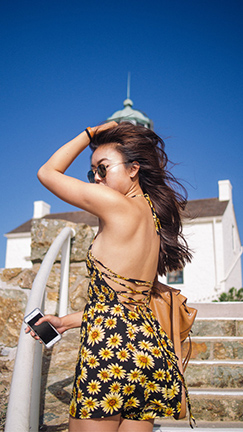
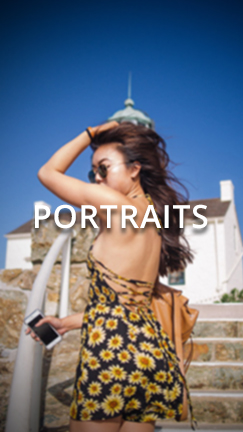
edited photos and projects
new photography menu

diff --git a/tct.html b/tct.html
@@ -141,9 +141,9 @@
 
 <strong>Community Members</strong>: Community members will be the backbone that supports the success of the school gardens. We will take into account students’ parents, teachers, and especially volunteers from San Diego County. Their ages will range from 16-65 years old. Since there is little to no funding for the school gardens, it is essential that volunteers from the community assist with the maintenance of the gardens. The site will be designed so that it is easy to navigate for someone who wants to get information about how to get involved. The presence of community members and volunteers in the site’s forums will be crucial for this project’s success, and in turn, the school gardens’ success.<br><br>
 
-To create a high-quality user experience, we created an empathy map to understand and gain deeper insights from our personas. While we focused on the needs and interests for these personas, the empathy map uncovers what the persona sees, thinks/feels, hears, gains, and is challenged by. We created an empathy map for one persona who specifically worked on a non-profit for school and community gardens and also used to teach at a local San Diego high school. 
-  Some of the key user needs that we uncovered from having conducted our interviews were that the website could and should incorporate: a simple user friendly design, visuals with tutorials, guides, and images, listings of plants and soil types as well as the pros and cons of each, a landscape and plant estimation application, and a directory of other schools with gardens in the San Diego School District. 
-  Some of the underlying motivations we found that drive our users’ desires and behaviors were that nature is important to people’s well-being, visual learning is important, and education through gardening extends to literature, history, and the sciences. There was also an awareness and interest in drought tolerant plants and the associated landscaping methods. <br><br>
+To create a high-quality user experience, I created an empathy map to understand and gain deeper insights from our personas. While we focused on the needs and interests for these personas, the empathy map uncovers what the persona sees, thinks/feels, hears, gains, and is challenged by. I created an empathy map for one persona who specifically worked on a non-profit for school and community gardens and also used to teach at my alma mater, a local San Diego high school. 
+  Some of the key user needs that I uncovered from having conducted the interviews were that the website could and should incorporate: a simple user friendly design, visuals with tutorials, guides, and images, listings of plants and soil types as well as the pros and cons of each, a landscape and plant estimation application, and a directory of other schools with gardens in the San Diego School District. 
+  Some of the underlying motivations I found that drive our users’ desires and behaviors were that nature is important to people’s well-being, visual learning is important, and education through gardening extends to literature, history, and the sciences. There was also an awareness and interest in drought tolerant plants and the associated landscaping methods. <br><br>
 
   <img src="images/tct/image39.jpg" class="img-responsive">
 </div>
@@ -303,9 +303,6 @@ The client also wanted a place where community discussion and announcements can 
 During the implementation process, there were several things we needed to take into consideration when dealing with stakeholders. First, we needed to onboard our client. While the site will be intuitive for users, the actual mechanisms to modify and add to the site from an administrative perspective are a bit more difficult. To counter this, we will be providing a manual for our client to use as a guide when editing the site. This will provide an efficient, moderative transition from the development team to the client. <br><br>
 
 
-<strong>Cost</strong><br>
-The main costs of the website will include both one-time and recurring costs. The one-time costs will consist of $49 ($52 with tax and fees included) and $30 for the WordPress theme and Google Maps plugin, respectively. Additionally, there will be an ongoing monthly cost of $3.99 for GoDaddy WordPress hosting. There will also be maintenance costs associated with the site. However, the amount of maintenance required will be quite low, perhaps in the range of one hour per month. If a developer is paid $20 per hour, we can simply add $20 to the monthly costs of the site. Therefore, monthly costs will be in the range of $23.99 per month on average. The first year’s costs of the website can be estimated to be $369.88. For every following year, the costs incurred will be approximately $287.88. <br><br>
-
 
 <strong>Assessment</strong><br>
   The purpose of our solution was to build a centralized, easily maintainable, forum-based website to serve as the main teacher collaboration tool for the San Diego Resource Conservation District. The website is successful in meeting certain specific requirements. First, the need of having a forum is satisfied by the use of a Facebook page.  The Facebook page allows a majority of people to log in and connect with other community members. Users can make posts or comments, and seek help from others. While familiarity with Facebook is relatively high amongst the potential users of the site, we needed to take into account that some users might not be as familiar with it or not have an account set up already, and thus will be less likely to utilize that aspect of the website. <br><br>
@@ -321,7 +318,11 @@ The main costs of the website will include both one-time and recurring costs. Th
           <div class="p4">
 Our goal was to develop a website that will serve as a teacher collaboration tool for teachers in the San Diego School District 
 and took a Human Centered Design approach by empathizing with our users and clients to design a meaningful product that meets their needs. School gardens can help children learn better and practice healthier eating habits. San Diego K-12 teachers could benefit from a tool for collaboration in order to share resources, hold discussions, and spread awareness about the benefits of school gardens for young students.  
-Our target users are teachers, students, and community members. <br><br>We selected a WordPress and Facebook concept, Wikia concept, and a Subreddit concept and assessed their features/benefits. We performed research and analysis for each of our three concepts to determine how each meets the design requirements of desirability, usability, feasibility, and sustainability. The concept chosen was Wordpress and Facebook. Using Wordpress, we chose to include a list of school gardens, a viewable location of gardens in San Diego with Google Maps feature, and an About page within the website. We evaluated and iterated on our design until the functionality was complete.<br><br> Considering that we have included a user manual for the ongoing maintenance of website, it could be a viable option to have future Design for Development students to partake in reiterating our design after having our target users interact with our implementation. With more user testing, input and feedback, and prototyping, we would only gain more empathy with our users to better meet their needs. 
+Our target users are teachers, students, and community members. <br><br>We selected a WordPress and Facebook concept, Wikia concept, and a Subreddit concept and assessed their features/benefits. We performed research and analysis for each of our three concepts to determine how each meets the design requirements of desirability, usability, feasibility, and sustainability. The concept chosen was Wordpress and Facebook. Using Wordpress, we chose to include a list of school gardens, a viewable location of gardens in San Diego with Google Maps feature, and an About page within the website. We evaluated and iterated on our design until the functionality was complete.<br><br> Considering that we have included a user manual for the ongoing maintenance of website, it could be a viable option to have future Design for Development students to partake in reiterating our design after having our target users interact with our implementation. With more user testing, input and feedback, and prototyping, we would only gain more empathy with our users to better meet their needs. <br><br>
+
+The takeaways from this project was that I had trouble trying to gauge who would be the users. It was a very niche platform, for niche communities. Not only was it targeting schools, but teachers who are even remotely interested in gardening, which I believed was difficult to find. I used to have an environmental science teacher at my high school who taught us about hydroponics, thinking that she would be a perfect user to interview and find needs. However, she retired from the school but fortunately I found out the community outreach director had actually tried to create a committee on school gardening. That interview was highly fruitful, but I was concerned on that it was a single person. We conducted phone and email interviews of other potential users, but in total we only had a handful of responses. <BR><BR>
+
+I felt as if I didn't fulfill my role enough as user liaison, but it was very difficult finding and communicating with users in general, especially the client who was not very consistent, which is why the website was not published. I believe I could've done better as user liaison if I had at least kept in contact with that director and the other participants we contacted, to walk them through the prototypes and concepts instead of only asking the client. We could've gotten more feedback that way instead of asking students to test our concepts.
 
 </div>
 

diff --git a/ucsdreport.html b/ucsdreport.html
@@ -147,7 +147,9 @@
 
           <div class="project-h2">DATA, DEVELOPMENT, & REFLECTION</div>
           <div class="p4">We began our research by conducting preliminary interviews, introducing simple questions to discern our interviewees experiences and concerns of campus safety at night. We primarily interviewed various undergraduate students of a variety demographics: ages ranging 18 - 25+, gender, ethnicity/race etc. These initial interviewee subjects amounted to 14 each since we did around 2-3 per group member, typically comprised of our friends, however some group members had other occupations such as being a bus driver and a library assistant so some interviewees were people who used the above services. In addition to this, we also split up as a team and began exploring our actual campus during nighttime hours. This led our team to be more informed of the potential issues that we would need to address.<br><br> We discovered that most answers from our interviewees tend to be similar, showing a trend in certain characteristics. Most answered the questions similar to how Aimee felt as mentioned above, stating that they find the campus to be fairly safe at night, although this depends on the part of campus, as the more well known areas tend to be perceived to be the safest, while we found that areas poorly lit and more secluded to be perceived as less safe. For our prototype, we came up with the idea of developing an emergency button because during our travels around campus we spotted various blue emergency call boxes widely scattered throughout that seemed to be unfunctional. During the talk with the receptionist, we discovered that the call boxes do work, however, the signal gets sent to the receptionist and then relayed to the police. We thought this process was incredibly cumbersome as well as unreliable. We also asked a small subset of people around the campus, around 5, if they knew how to use the call box. None knew. <br><br><img src="images/ucsdreport/image01.jpg" class="img-responsive-about"> <br><br> During a class activity where we shared prototypes with other groups, two out of the two groups we discussed our prototype with, thought that the idea of an emergency button could be easily abused. <br><br><img src="images/ucsdreport/prototype.jpg" class="img-responsive-about"> <br><br> <img src="images/ucsdreport/prototype2.jpg" class="img-responsive-about"> <br><br>Due to the simplicity of how it is activated, by a single click, a person could accidentally “butt - dial” said one of the group members. Additionally another group member commented that, “Do you really want the police to have to determine which incidents are actually severe?”, “there is no method to filter what really requires police intervention and people simply overreacting”, and “Why are you trying to make people stray from simply calling 911?”. These comments proved to be quite critical and ultimately caused us to pivot our design. After brainstorming we decided to retain the feature of an emergency button, but instead of resorting police, we wanted a method to alleviate their burden and place taking action within the hands of students via crowdsourcing. We collaborated extensively with one of the TAs, Michael and he brought up various evidences of crowdsourcing being successful such as neighborhood watches. Running with the idea, we released surveys to gauge the likelihood and willingness of students to take charge for themselves to make a difference. While our sample size was quite small, 8 people, many of them were willing to be proactive in assisting students. <br><br><img src="images/ucsdreport/image07.png" class="img-responsive"><br><br> It seemed as if we were going in the correct direction and we wished to support our information with more evidence through in person interviews. We again interviewed a small set of people, around 5, and discovered that it was quite the opposite. One response by Wilson (age 20), stated that he would consider going, but if he was too busy he would hope that others would take the initiative instead. Another response by Tuan (age 25), remarked that if there was someone getting robbed by a weapon, what could he honestly do? Additionally one of our team members who applied to be a campus security officer, CSO, remarked that when he was getting trained they were told to avoid problems such as this and instead radio in help, etc. If people whose duty was to assist with safety were told not to help out in situations such as a robbery, how could we believe that other random students would want to. Furthermore, through more class activities such as the gallery walk, one TA, Stephen, exclaimed that it would be quite creepy having random students monitor and then respond to an emergency signal. Also, some students during the gallery walk believed that even if other students came, would they actually do anything because our app was essentially falling into the trap of the bystander effect. In light of the criticism and evidence, we knew we had to pivot once again. Throughout each of our prototypes starting from the app onward, we continually integrated the feature of having the ability to report issues and display these on a map. While our other functions were disliked such as the emergency response button, many from interviews, surveys, and even students from class thought that the reporting feature would be a concept worth pursuing. <br><br><img src="images/ucsdreport/image14.png" class="img-responsive-about"><br><br> <img src="images/ucsdreport/image12.png" class="img-responsive-about"><br><br> Due to how little time we had left, we were only able to conduct an online survey and the results proved to be quite fruitful. While the current survey proved to be successful, there was discussion with some of the teaching staff, that this solution may not effectively promote safety. If we had more time we would continue to have in person interviews and simply continue to iterate, iterate, and iterate. 
-Safety is such a broad and general concept that ultimately proved difficult to address and may actually be an impossible topic to fully satisfy. However, we did learn immensely from this experience such as, we should have listened to our audience initially and stuck with a lighting solution. Nevertheless, data has shaped our idea quite immensely from going to biking and skating safety to one akin to reporting various issues on campus. 
+Safety is such a broad and general concept that ultimately proved difficult to address and may actually be an impossible topic to fully satisfy. However, we did learn immensely from this experience such as, we should have listened to our audience initially and stuck with a lighting solution. Nevertheless, data has shaped our idea quite immensely from going to biking and skating safety to one akin to reporting various issues on campus. <br><br>
+
+Overall, this was my first design course and I was shocked by how much design can change and how feedback is highly critical. If we had not gained the feedback to pivot that many times, we could have ended up with a very poor design based on assumptions. I learned that pivoting was not bad, even if we had to pivot a week before final presentations. That is part of the design process, of iterate, iterate, iterate; where you can't rely on assumptions, you have to garner feedback and build off of what you learn from potential users. I believe we could have done better with gaining feedback and testing, because I felt we relied on assumptions at each stage of the process. I think that was the reason we had to pivot so much. I feel that I could've have also done better if I did more user research, wireframing, and low fidelity prototyping to create the design and architecture of the app. I instead went straight into it and built a design without any foundation or research. Without the proper research, and jumping into the design too quick, I set up problems along the way that were unnecessary.
 
 
 

diff --git a/photography.html b/photography.html
@@ -38,93 +38,63 @@
 		</div>
 
 		<div class="row">		
-			<div class="col-sm-2">
-				<div class="animatedParent data-appear">
+			<div class="col-sm-2 col-xs-6">
+				<div class="animatedParent animateOnce data-appear">
 					<div class="animated fadeInUp">
 
-						<figure class="imghvr-fade">
-    						<img src="images/portfoliof.jpg">
-    					<figcaption>
-        					Fashion
-    					</figcaption>
-    					<a href="fashion.html"></a>
-						</figure>
+						<a href="fashion.html">
+    						<img src="images/portfoliof.jpg" class="grow"></a>
 
         			</div>
         		</div>
         	</div>
 
         	
-			<div class="col-sm-2">
-				<div class="animatedParent data-appear">
+			<div class="col-sm-2 col-xs-6">
+				<div class="animatedParent animateOnce data-appear">
 					<div class="animated fadeInUp">
-						<figure class="imghvr-fade">
-    						<img src="images/portfoliol.jpg">
-    					<figcaption>
-        					Lifestyle
-    					</figcaption>
-    					<a href="lifestyle.html"></a>
-						</figure>
+          <a href="lifestyle.html">
+						<img src="images/portfoliol.jpg" class="grow"></a>
         			</div>
         		</div>
         	</div>
 
        		
-			<div class="col-sm-2">
-				<div class="animatedParent data-appear">
+			<div class="col-sm-2 col-xs-6">
+				<div class="animatedParent animateOnce data-appear">
 					<div class="animated fadeInUp">
-						<figure class="imghvr-fade">
-    						<img src="images/portfoliop.jpg">
-    					<figcaption>
-        					Portraits
-    					</figcaption>
-    					<a href="portraits.html"></a>
-						</figure>
+          <a href="portraits.html">
+						<img src="images/portfoliop.jpg" class="grow"></a>
         			</div>
         		</div>
         	</div>
 
     		
-			<div class="col-sm-2">
-				<div class="animatedParent data-appear">
+			<div class="col-sm-2 col-xs-6">
+				<div class="animatedParent animateOnce data-appear">
 					<div class="animated fadeInUp">
-						<figure class="imghvr-fade">
-    						<img src="images/portfolioc.jpg">
-    					<figcaption>
-        					Couples
-    					</figcaption>
-    					<a href="couples.html"></a>
-						</figure>
+          <a href="couples.html">
+						<img src="images/portfolioc.jpg" class="grow"></a>
         			</div>
         		</div>
         	</div>
 
        		
-			<div class="col-sm-2">
-				<div class="animatedParent data-appear">
+			<div class="col-sm-2 col-xs-6">
+				<div class="animatedParent animateOnce data-appear">
 					<div class="animated fadeInUp">
-						<figure class="imghvr-fade">
-    						<img src="images/portfolioe.jpg">
-    					<figcaption>
-        					Events
-    					</figcaption>
-    					<a href="events.html"></a>
-						</figure>
+          <a href="events.html">
+						<img src="images/portfolioe.jpg" class="grow"></a>
         			</div>
         		</div>
         	</div>
 
 		
-			<div class="col-sm-2">
-				<div class="animatedParent data-appear">
+			<div class="col-sm-2 col-xs-6">
+				<div class="animatedParent animateOnce data-appear">
 					<div class="animated fadeInUp">
-						<figure class="imghvr-fade" style="background-color:#343434;">
-    						<img src="images/portfoliot.jpg">
-    					<figcaption>
-        					Places
-    					</figcaption>
-    					<a href="places.html"></a>
-						</figure>
+          <a href="places.html">
+						<img src="images/portfoliot.jpg" class="grow"></a>
         			</div>
         		</div>
         	</div>

diff --git a/folio.html b/folio.html
@@ -155,7 +155,7 @@
           <div class="project-spacer-small"></div>
 
           <div class="project-h2">CONCLUSION</div>
-          <div class="p4">Although I had to do some Google-fu to figure out how to do stuff with the help of StackOverflow and CSSTricks, coding in HTML and CSS began to click and next thing I know, I'm developing a functional design to just how I wanted it to be. Overall, I'm very very very proud with what I've accomplished and what I'm continuing to learn. I'm ecstatic that I was able to develop a portfolio tailored to my needs that I hope establishes my identity and helps propel me further into the field of design. <strong>Cheers!</strong>
+          <div class="p4">Although I had to do some Google-fu to figure out how to do stuff with the help of StackOverflow and CSSTricks, coding in HTML and CSS began to click and next thing I know, I'm developing a functional design to just how I wanted it to be. On the other hand, I wish I wireframed it and worked on the architecture more, as well as the mobile first approach, since I figured the mobile layout would be the same as the web layout. I didn't take into consideration how responsive Bootstrap is so my wireframes and sketches didn't show that. I also wish I designed it in grayscale before color, because I felt like color was such an important component, I based some of my design around color. Overall, I'm very very very proud with what I've accomplished and what I'm continuing to learn. I'm ecstatic that I was able to develop a portfolio tailored to my needs that I hope establishes my identity and helps propel me further into the field of design. <strong>Cheers!</strong>
 
           <br><br> <img src="images/folio/foliodevice.png" class="img-responsive"><br>
 

diff --git a/css/style.css b/css/style.css
@@ -524,3 +524,5 @@ a:button {
 	color:  #30332E;
 }
 
+.grow { max-width: 100%; transition: all .2s ease-in-out; }
+.grow:hover { transform: scale(1.05); }
